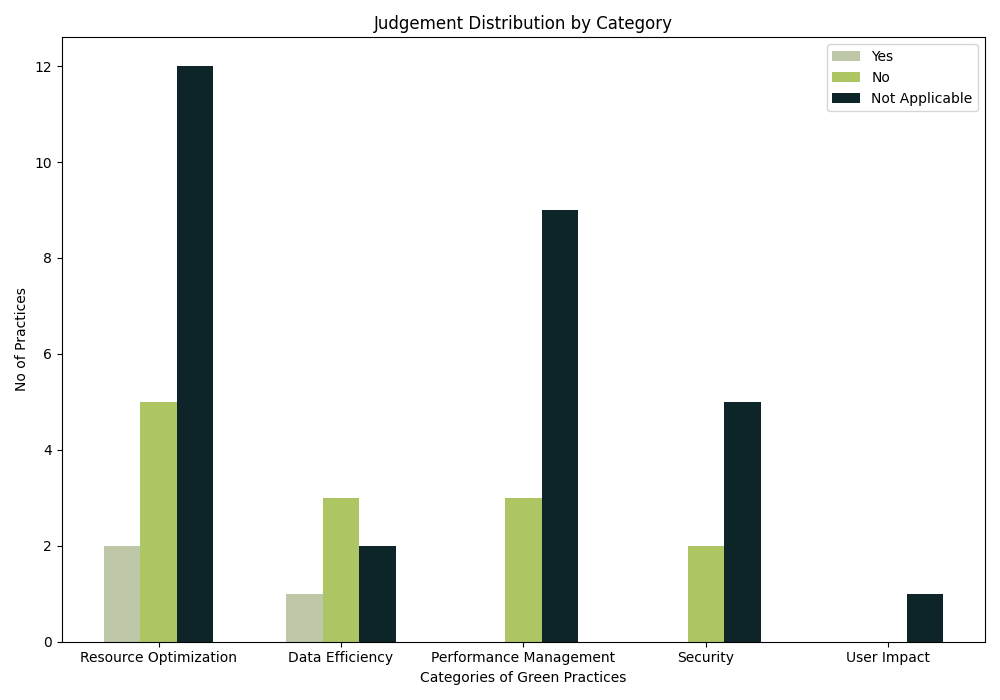
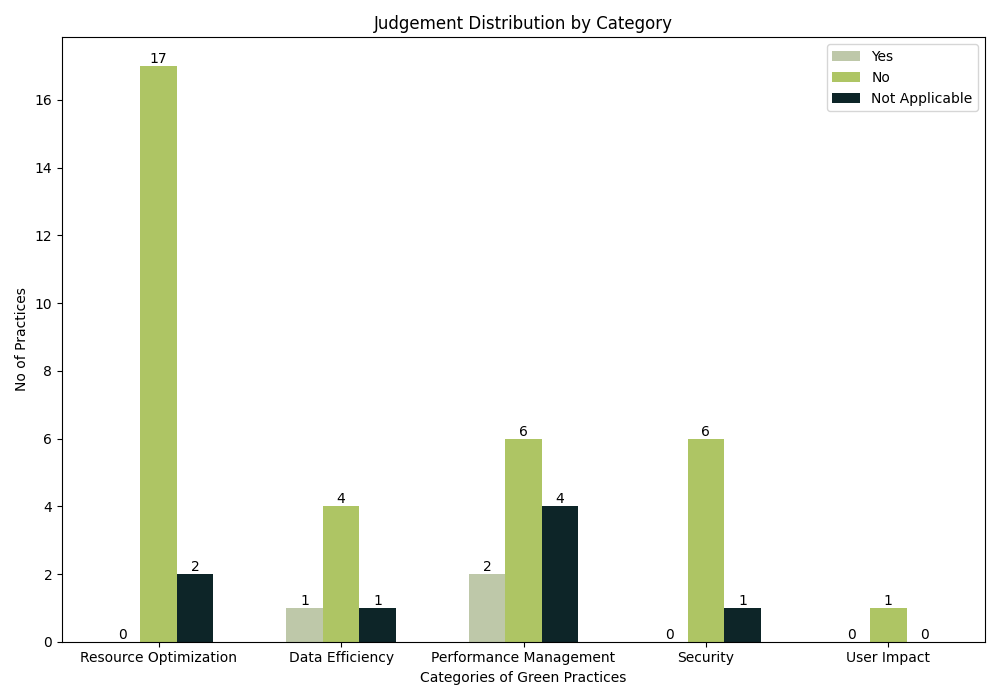
Improve charts style
also fix bug in api where try to create chart when combined result is not available.

diff --git a/Rag/evaluation/summary_charts.py b/Rag/evaluation/summary_charts.py
@@ -19,14 +19,19 @@ def generate_pie_chart(result_path):
     category_counts = Counter(categories)
 
     # Define custom colors
-    colors = ['#B4DCB4','#ECF2D7','#AEC564','#2E6B68','#0D2528']
+    colors = ['#B4DCB4','#ECF2D7','#AEC564','#2E6B68','#507878']
+    
+    # Define custom function，change percentage to absolute value
+    def func(pct, allvals):
+        absolute = int(np.round(pct/100.*np.sum(allvals)))
+        return "{:d}".format(absolute)
 
     # Creating a pie chart
     plt.figure(figsize=(8, 6))
     wedges, texts, autotexts = plt.pie(
         category_counts.values(), 
         colors=colors, 
-        autopct='%1.1f%%', 
+        autopct=lambda pct: func(pct, list(category_counts.values())), 
         startangle=140, 
         textprops=dict(color="black")
     )
@@ -36,8 +41,8 @@ def generate_pie_chart(result_path):
         text.set_fontsize(12)
         text.set_color('black')
     for autotext in autotexts:
-        autotext.set_fontsize(10)
-        autotext.set_color('black')
+        autotext.set_fontsize(15)
+        autotext.set_color('white')
 
     # Position the legend on the right
     plt.legend(
@@ -79,10 +84,10 @@ def generate_bar_chart(result_path):
     width = 0.2  # Width of the bars
 
     # Creating the bar chart
-    plt.figure(figsize=(10, 7))
-    plt.bar(x - width, yes_counts, width, label='Yes', color='#BEC8A9')
-    plt.bar(x, no_counts, width, label='No', color='#AEC564')
-    plt.bar(x + width, na_counts, width, label='Not Applicable', color='#0D2528')
+    fig, ax = plt.subplots(figsize=(10, 7))
+    bars_yes = ax.bar(x - width, yes_counts, width, label='Yes', color='#BEC8A9')
+    bars_no = ax.bar(x, no_counts, width, label='No', color='#AEC564')
+    bars_na = ax.bar(x + width, na_counts, width, label='Not Applicable', color='#0D2528')
 
     # Adding labels and title
     plt.xlabel('Categories of Green Practices')
@@ -90,6 +95,22 @@ def generate_bar_chart(result_path):
     plt.title('Judgement Distribution by Category')
     plt.xticks(x, categories, ha="center")
     plt.legend()
+    
+    # Add numbers at the top of each bar
+    def add_labels(bars):
+        for bar in bars:
+            height = bar.get_height()
+            ax.text(
+                bar.get_x() + bar.get_width() / 2, 
+                height, 
+                f'{height}', 
+                ha='center', 
+                va='bottom'
+            )
+            
+    add_labels(bars_yes)
+    add_labels(bars_no)
+    add_labels(bars_na)
 
     # Displaying the bar chart
     plt.tight_layout()
@@ -101,5 +122,5 @@ def generate_bar_chart(result_path):
 #plt.ion()
 
 
-# generate_pie_chart('frontend/src/api_results/evaluation/Phi3_results.json', "Results_R-C_G_phi3_P2_Netflix")
-# generate_bar_chart('frontend/src/api_results/evaluation/Phi3_results.json', "Results_R-C_G_phi3_P2_Netflix")
+# generate_pie_chart('logger/test.json')
+# generate_bar_chart('logger/test.json')

diff --git a/Rag/api.py b/Rag/api.py
@@ -113,11 +113,13 @@ async def ask_ecodoc(file: UploadFile):
                 yield json.dumps({"type": "indicator", "payload": {"step": 1}}) + "\n"
         finally:
             yield json.dumps({"type": "indicator", "payload": {"step": 3}}) + "\n"
-            # saving results to json file
-            result_path = export_combined_results_to_json_file(combined_path)
-            # generating charts
-            generate_pie_chart(result_path)
-            generate_bar_chart(result_path)
+            result_path = ""
+            if os.path.exists(combined_path):
+                # saving results to json file
+                result_path = export_combined_results_to_json_file(combined_path)
+                # generating charts
+                generate_pie_chart(result_path)
+                generate_bar_chart(result_path)
             #cleanup files
             if os.path.exists(logger_file_path):
                 os.remove(logger_file_path)
